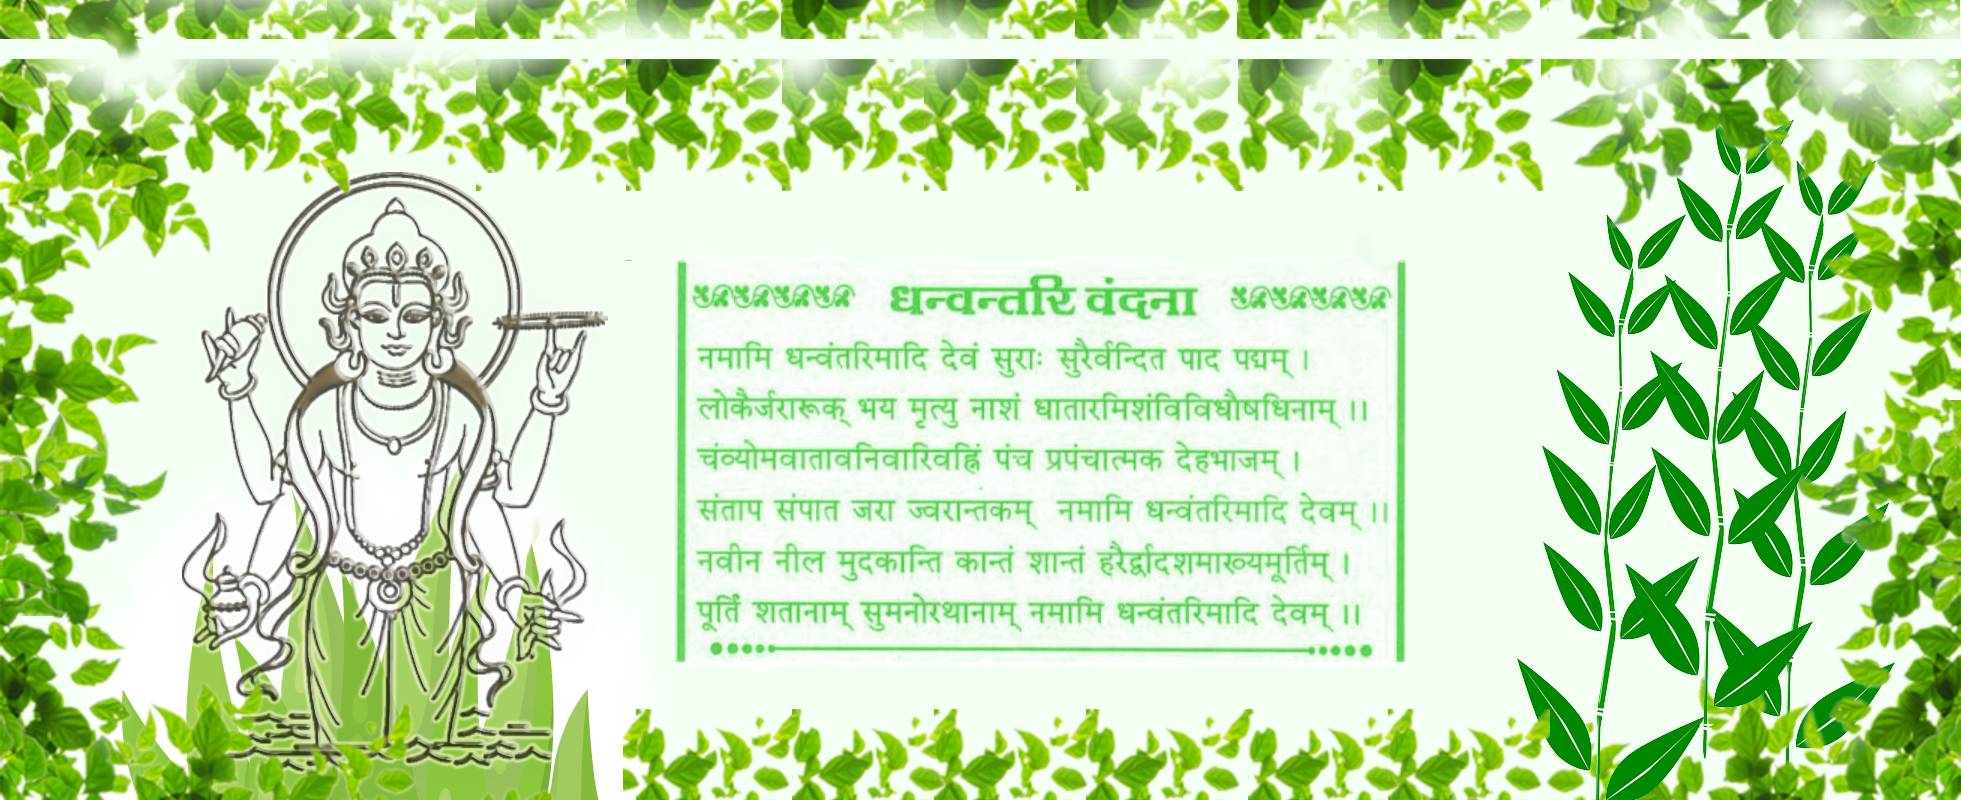
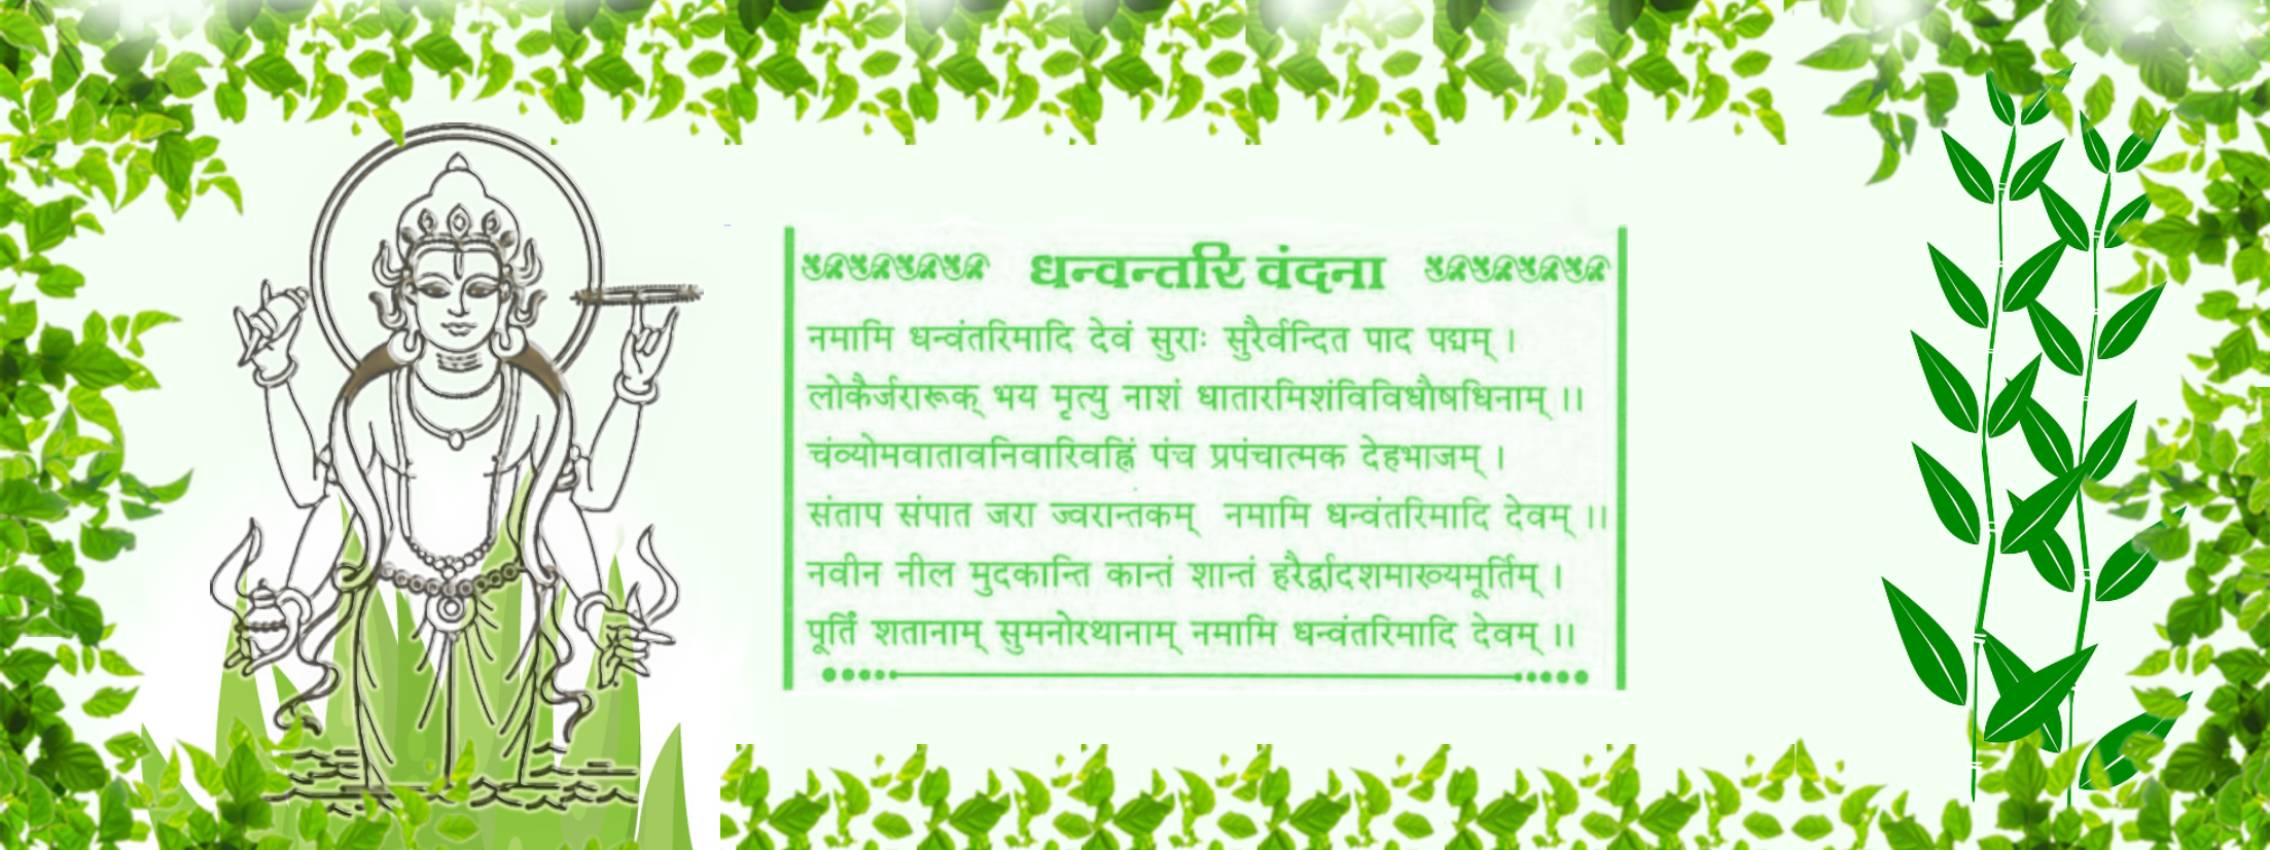
css changes

diff --git a/assets/css/style-starter.css b/assets/css/style-starter.css
@@ -10409,7 +10409,7 @@ a.view:hover {
   z-index: 0;
   display: grid;
   align-items: center;
-  min-height: 70vh; }
+  min-height: calc(100vh - 120px); }
 
 .w3l-main-slider .banner-top1 {
   background: url(../images/banner2.jpg) no-repeat center;
